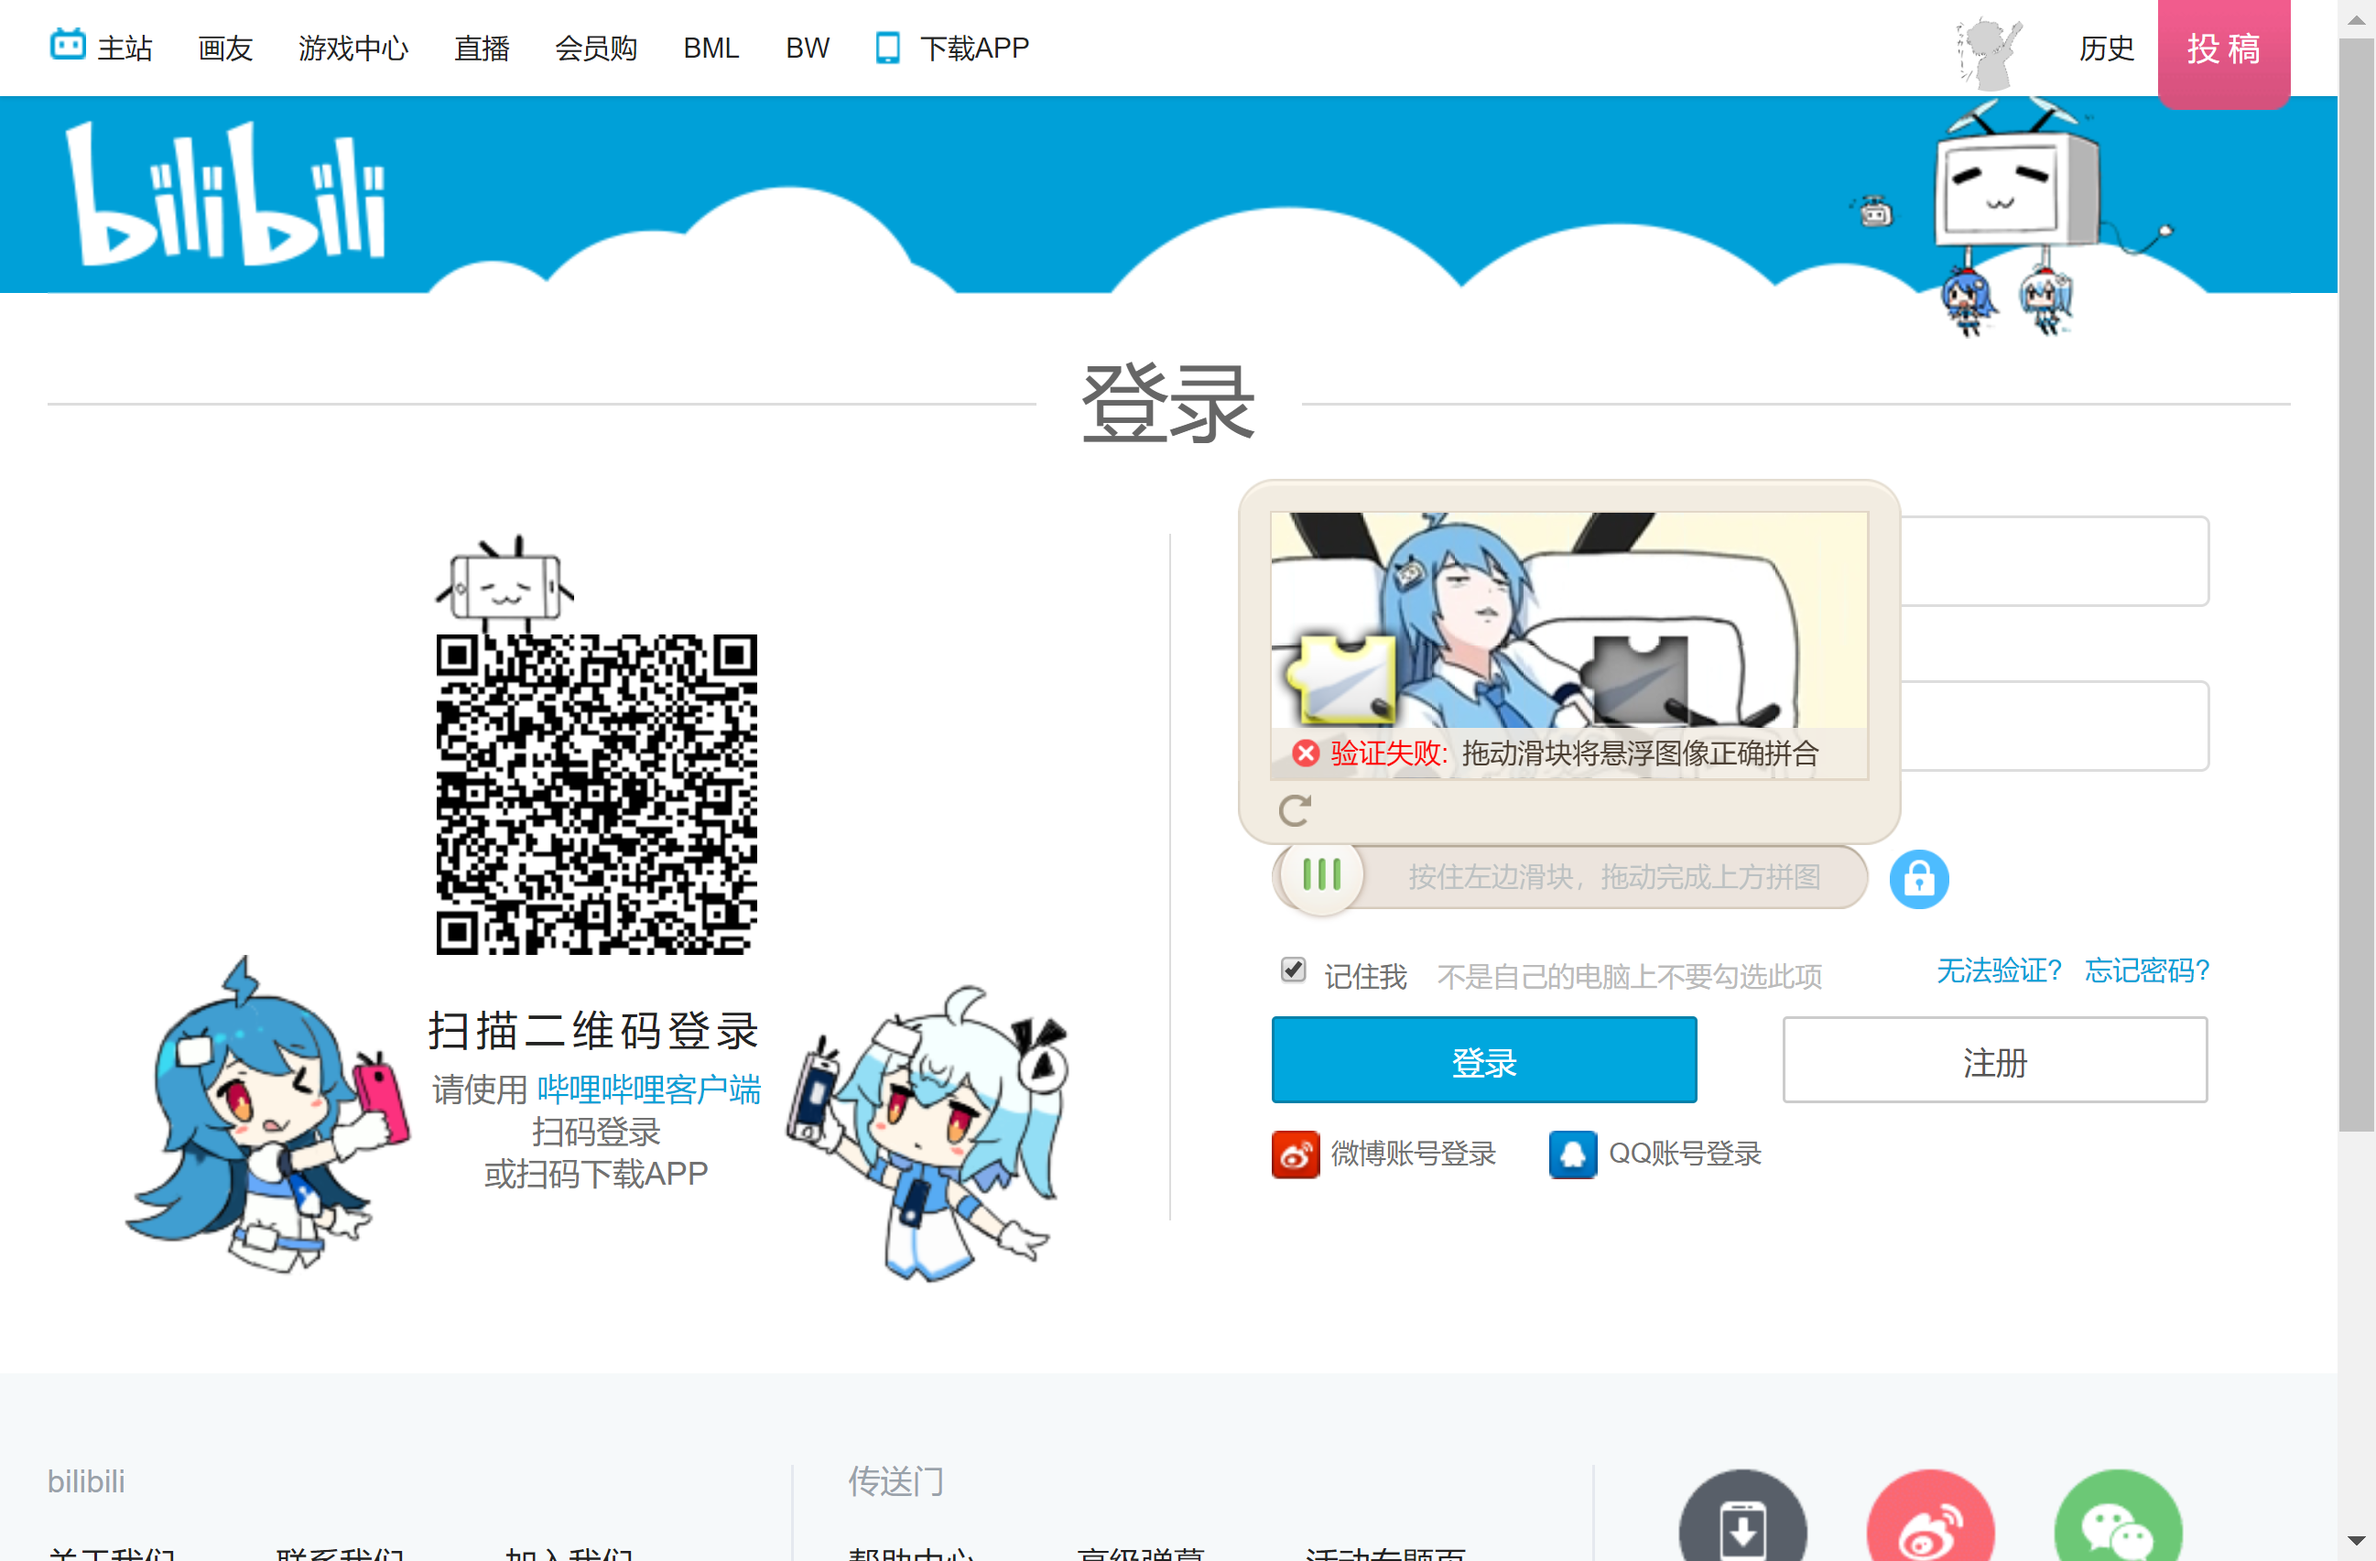
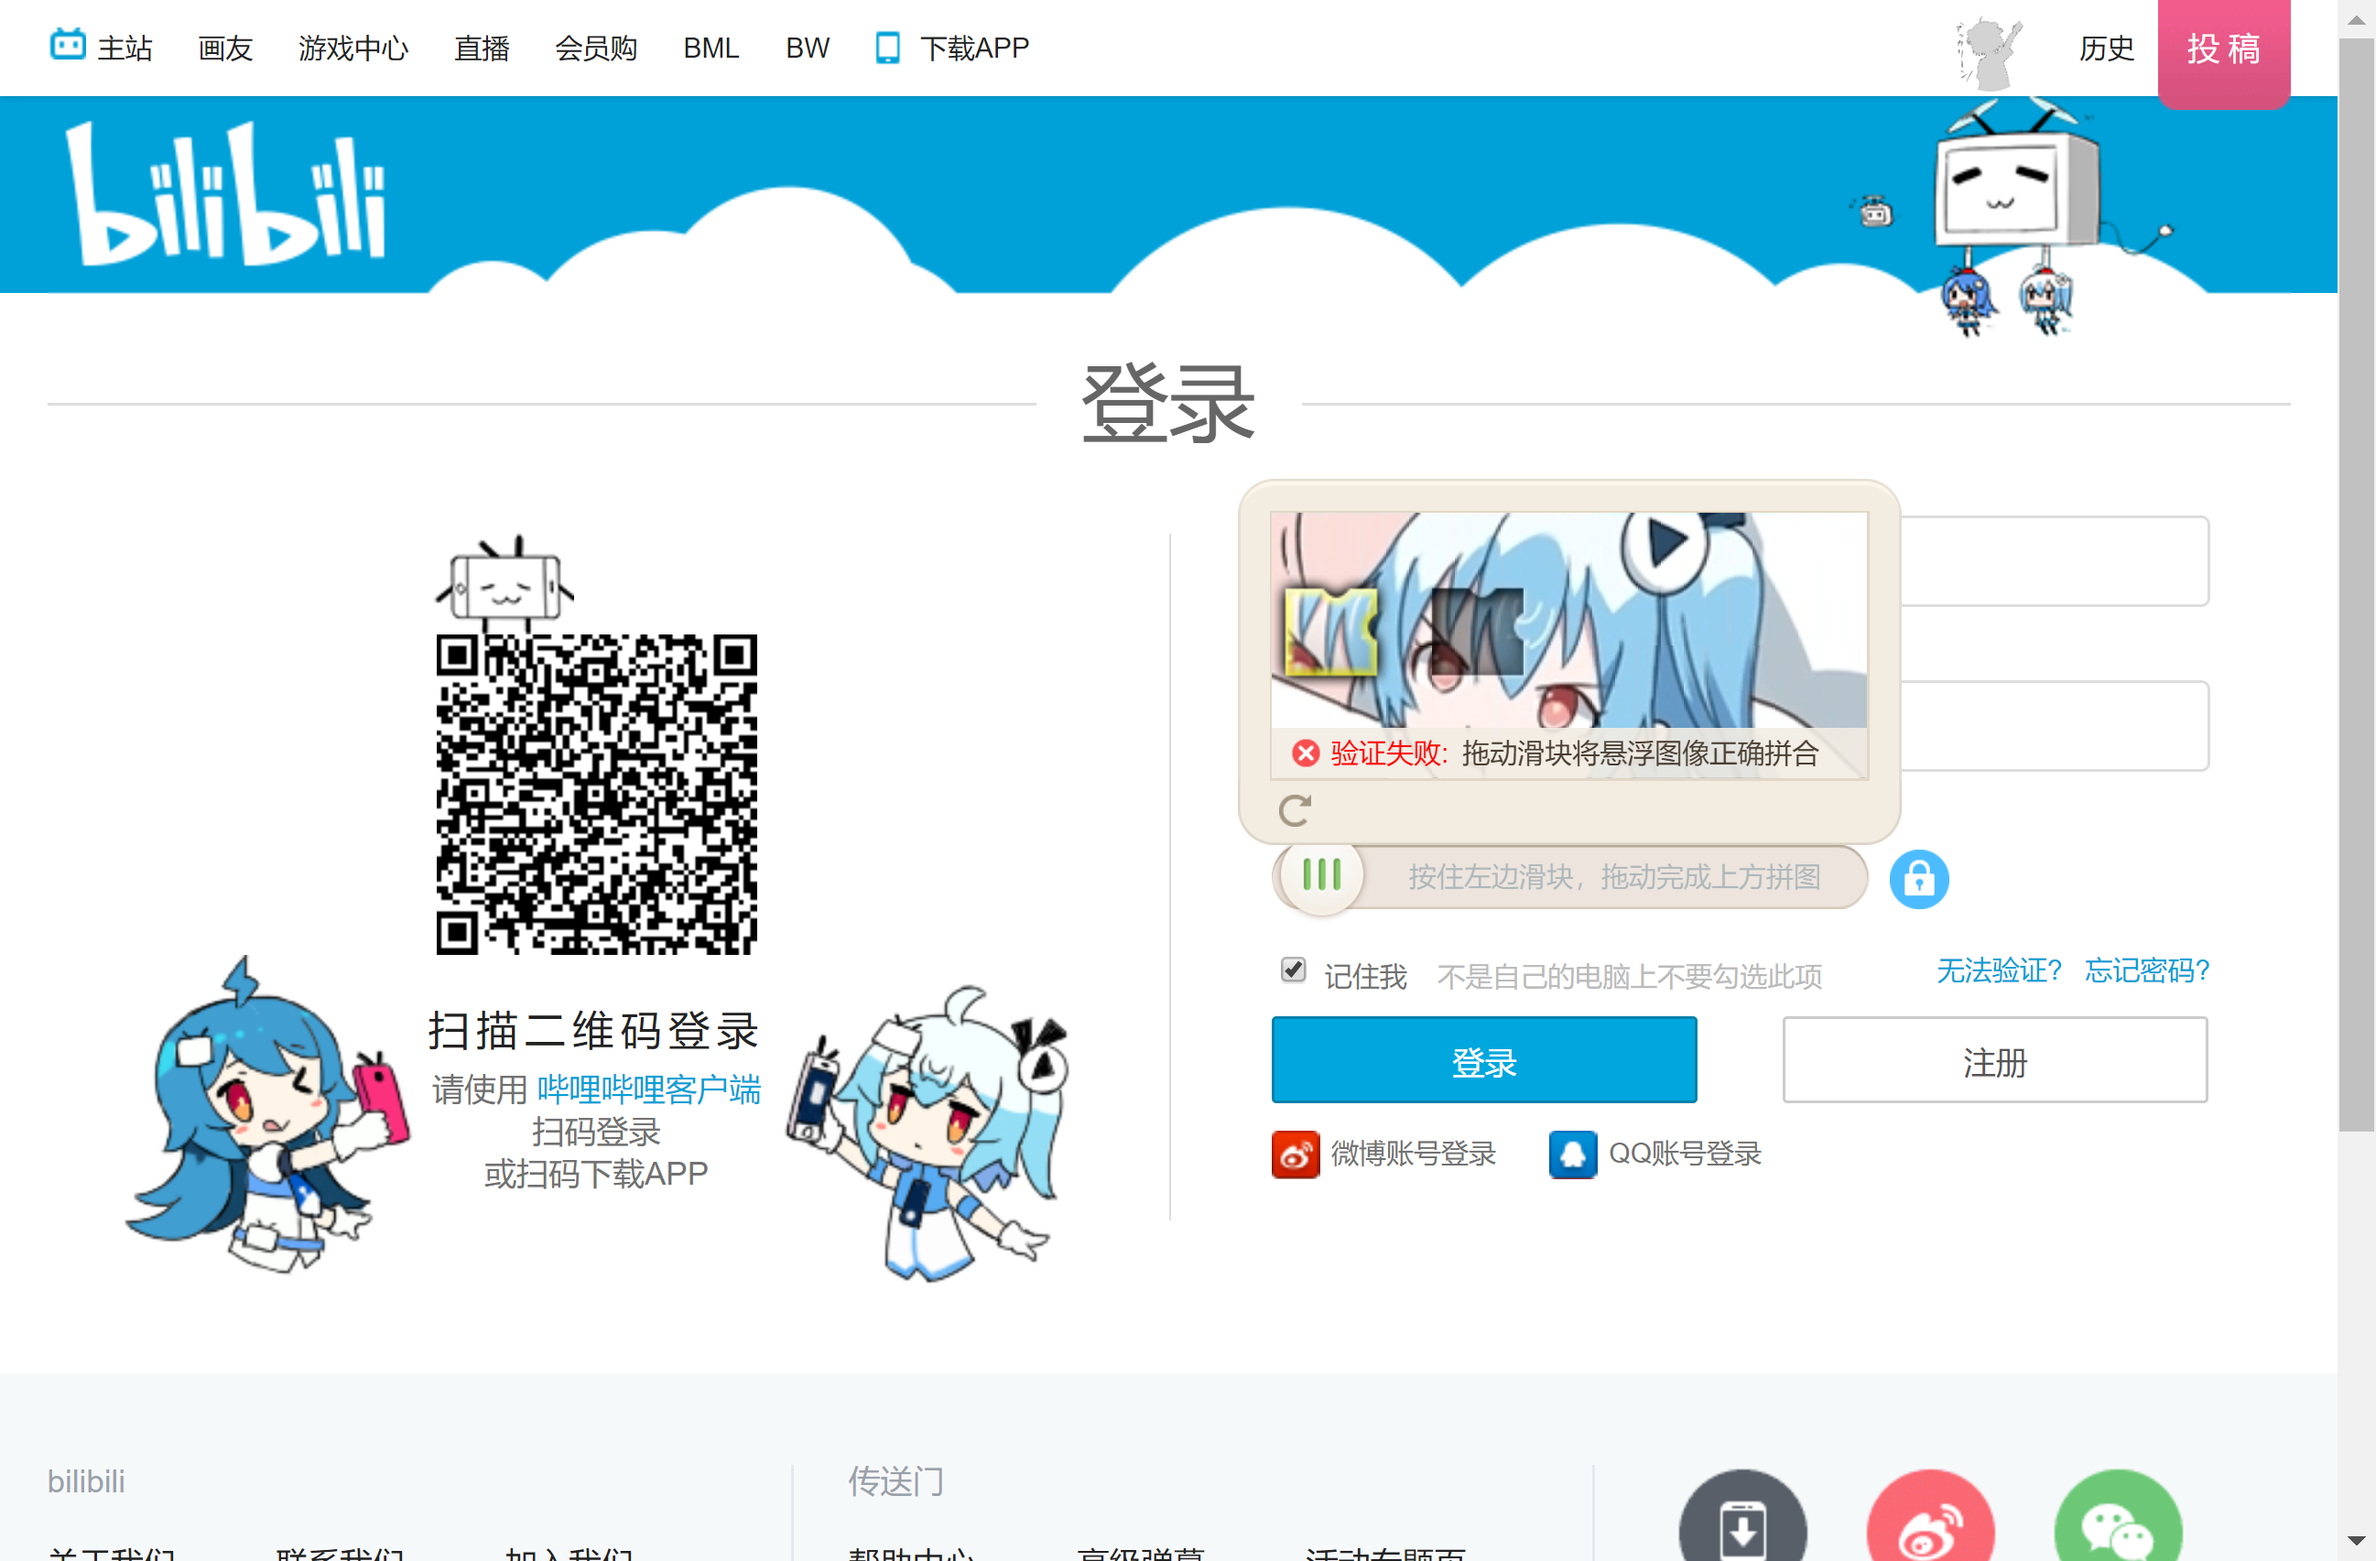
None

Changed region(s): [[0.5306, 0.3109, 0.8116, 0.4663], [0.1873, 0.4041, 0.3434, 0.6217]]

diff --git a/IdentifyingCodeCheck/IdentifyingCodeCheck.py b/IdentifyingCodeCheck/IdentifyingCodeCheck.py
@@ -8,7 +8,6 @@ from selenium.webdriver import ActionChains
 driver = webdriver.Chrome()
 wait = WebDriverWait(driver, 10)
 driver.get("https://www.bilibili.com")
-move_action = ActionChains(driver)
 move_btn_xpath = '//*[@id="gc-box"]/div/div[3]/div[2]'
 cropped_im_size = (650, 235)
 
@@ -20,27 +19,55 @@ def LogIn():
     move_btn = wait.until(
         EC.presence_of_element_located((By.XPATH, move_btn_xpath))
     )
-def MoveElement(distance):
-    move_action.click_and_hold(driver.find_element_by_xpath(move_btn_xpath))
-    move_action.move_by_offset(260, 0)
-    move_action.release().perform()
+def MoveElement(track):
+    ActionChains(driver).click_and_hold(driver.find_element_by_xpath(move_btn_xpath)).perform()
+    for x in track:
+        ActionChains(driver).move_by_offset(x, 0).perform()
+    time.sleep(0.5)
+    ActionChains(driver).release().perform()
 def ImageCrop():
-    move_action.click_and_hold(driver.find_element_by_xpath(move_btn_xpath))
-    move_action.move_by_offset(100, 0)
-    move_action.release().perform()
+    driver.find_element_by_xpath(move_btn_xpath).click()
     time.sleep(1)
     driver.save_screenshot('screenshot.png')
     im = Image.open('./screenshot.png')
     im_crop = im.crop((1388, 560, 2038, 795))
     im_crop.save('./cropped.png')
-    return im.getdata()
+    return im_crop.getdata()
 def GetDistance(RGBList):
+    for iter_height in range(cropped_im_size[1]):
+        for iter_width in range(cropped_im_size[0] - 110):
+            NOW_RGB = RGBList[iter_height * cropped_im_size[0] + iter_width]
+            NEXT_RGB = RGBList[iter_height * cropped_im_size[0] + iter_width + 1]
+            if NOW_RGB[0] - NEXT_RGB[0] > 60:
+                return iter_width
     return 0
+
+def GetTrack(distance):
+    v0 = 0
+    t = 0.2
+    mid_distance = distance / 2
+    now_distance = 0
+    track = []
+    while now_distance <= distance:
+        if now_distance < mid_distance:
+            a = 2
+        else:
+            a = -2
+        v = v0 + a * t
+        v0 = v
+        x = v * t + 1 / 2 * a * t * t
+        if x < 0:
+            x = 0 - x
+        now_distance += x
+        track.append(round(x))
+    return track
 def main():
     LogIn()
     RGBList = ImageCrop()
     distance = GetDistance(RGBList)
-    print(distance)
-    MoveElement(distance)
+    track = GetTrack(distance)
+    MoveElement(track)
+    time.sleep(2)
+    driver.quit()
 if __name__ == "__main__":
     main()
